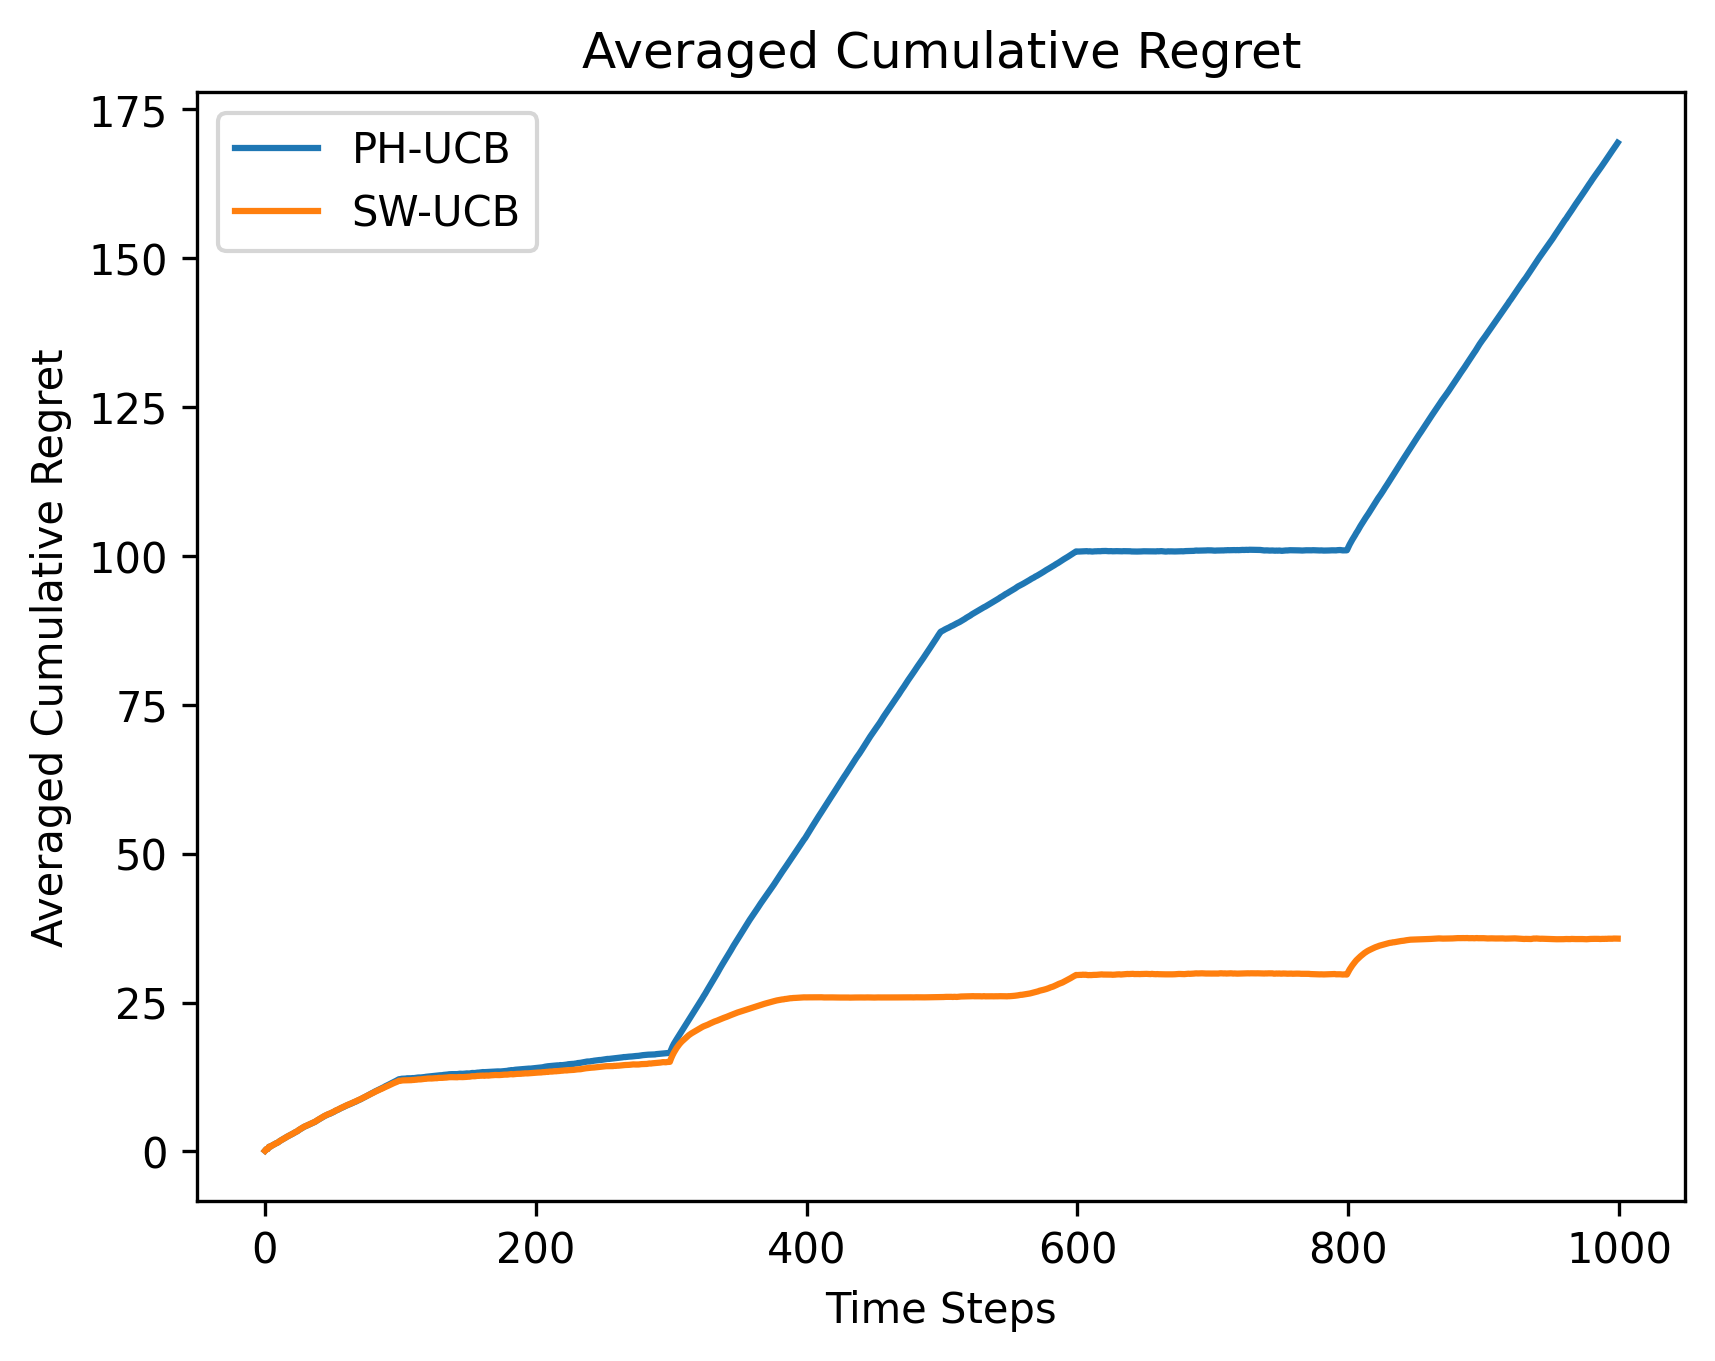
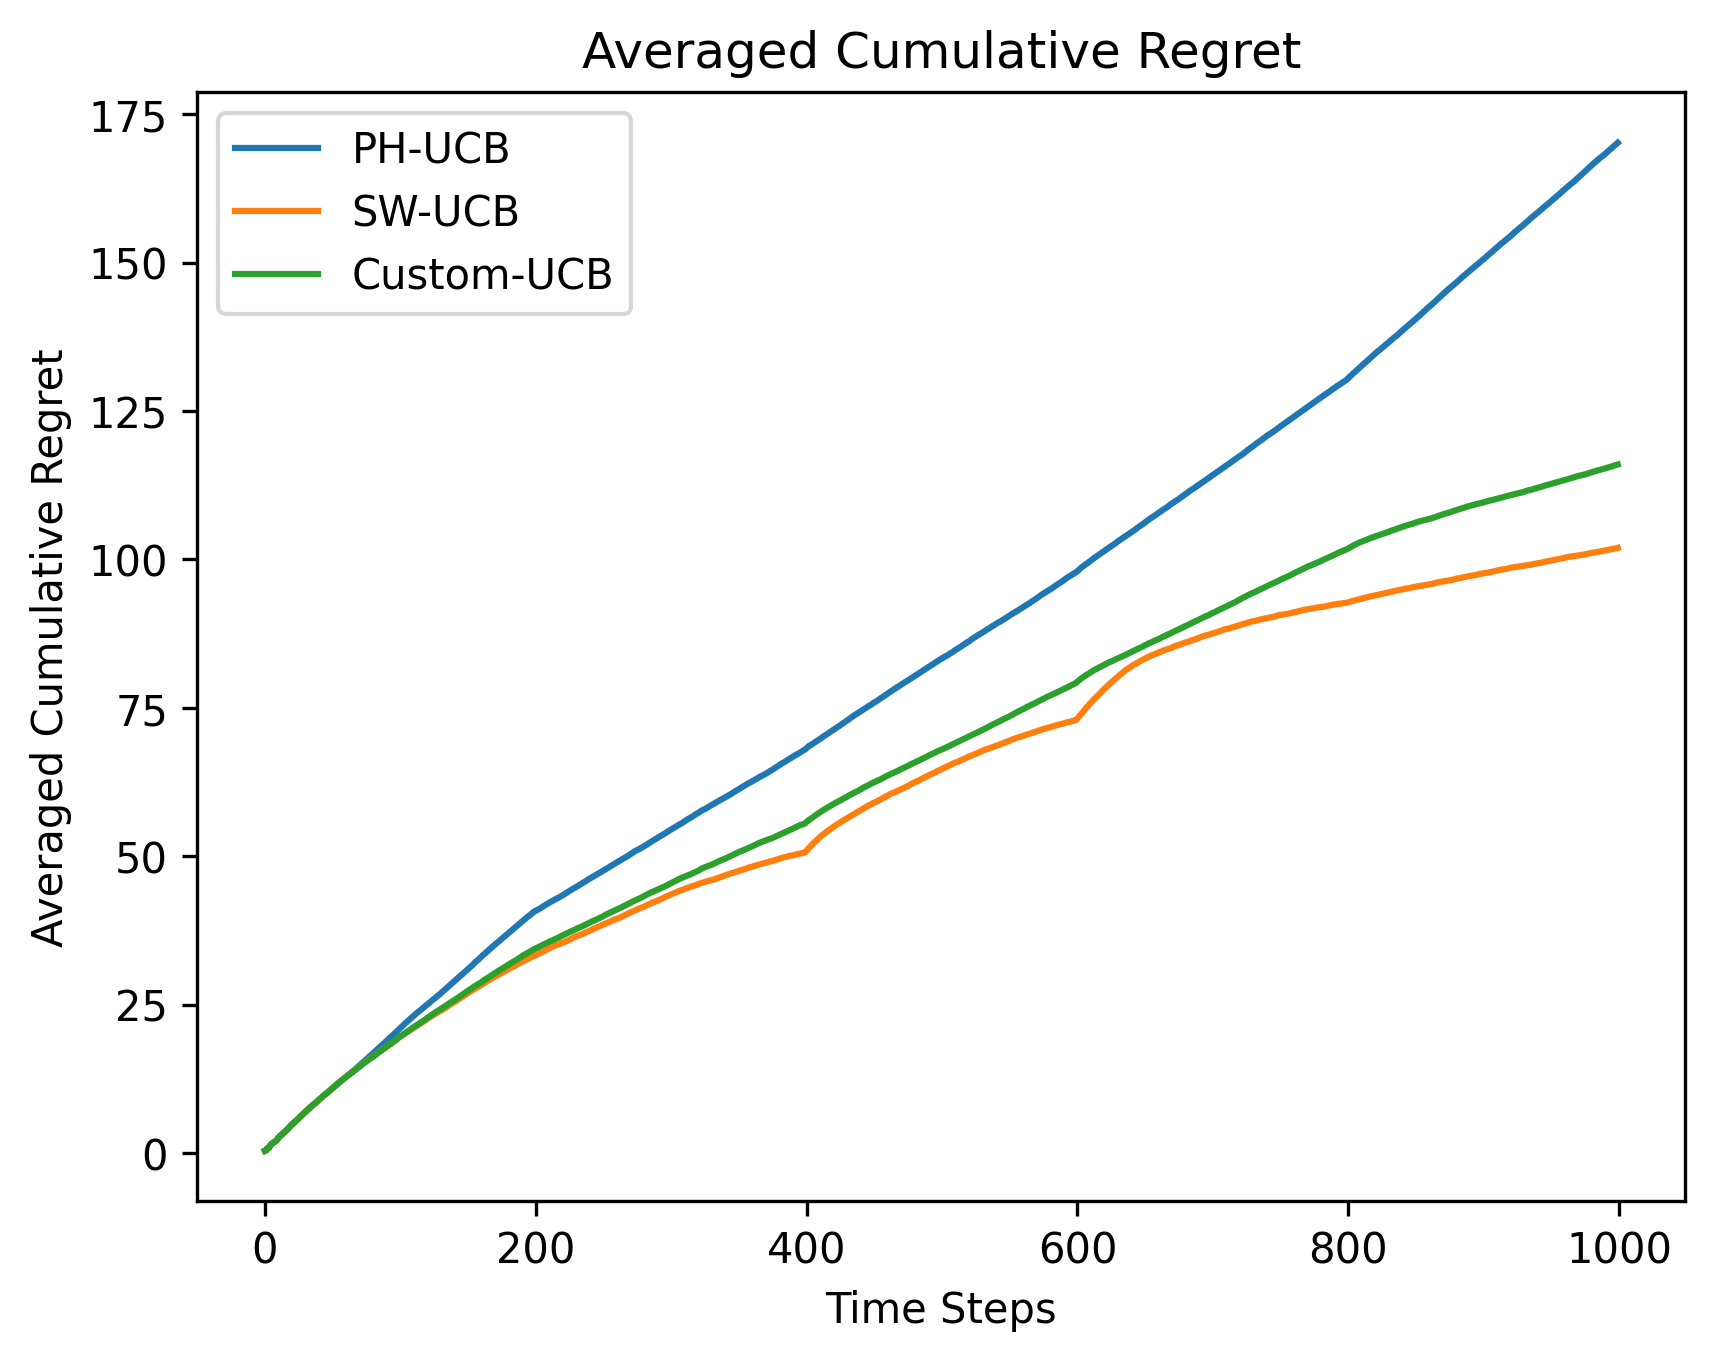
shift scheduler

diff --git a/src/cmab/environments/ns_scm_mab.py b/src/cmab/environments/ns_scm_mab.py
@@ -2,34 +2,24 @@ from cmab.scm.scm import SCM
 import numpy as np
 from cmab.typing import InterventionSet
 from .base import BaseCausalBanditEnv
+from .ns.scheduling.base import ShiftSchedule
     
 
 class NSCausalBanditEnv(BaseCausalBanditEnv):
-    def __init__(self, scm: SCM, reward_node: str, side_observations: bool = True, seed:int=42, atomic: bool = False, non_intervenable: list[str] = [], prob_distribution_shift: float = 0.01, max_delta: float = 0.2, 
-                 exogenous_to_shift: list[str] = [], new_probs: list[float] = []):
+    def __init__(self, scm: SCM, reward_node: str, side_observations: bool = True, seed:int=42, atomic: bool = False,
+                  non_intervenable: list[str] = [], shift_schedule: ShiftSchedule = None):
         super().__init__(scm, reward_node, side_observations, seed, atomic, non_intervenable)
-        self.prob_distribution_shift = prob_distribution_shift
         self.state = None
-        self.max_delta = max_delta
+        self.shift_schedule = shift_schedule
         self.action_space: list[InterventionSet] = self._init_action_space(atomic=atomic, non_intervenable=non_intervenable)
-        self.exogenous_to_shift_init = exogenous_to_shift
-        self.new_probs_init = new_probs
-        self.exogenous_to_shift = exogenous_to_shift.copy()
-        self.new_probs = new_probs.copy()
-        self.controlled_shifts = bool(exogenous_to_shift and new_probs)
 
 
     def step(self, action: InterventionSet):
-        # Possibly apply a distribution shift
-        # if self.rng.uniform(0, 1) < self.prob_distribution_shift:
-        #         self.scm.exogenous_distribution_shift(max_delta=self.max_delta, rng=self.rng)
-        if self._step % 200 == 0:
-            print(f"EXogenous left to shift: {self.exogenous_to_shift}")
-            print (f"\nStep {self._step}: Applying distribution shift.")
-            if self.controlled_shifts:
-                exogenous_to_shift = self.exogenous_to_shift.pop(0)
-                new_prob = self.new_probs.pop(0)
-            self.scm.exogenous_distribution_shift(max_delta=self.max_delta, rng=self.rng, exogenous_to_shift=exogenous_to_shift, new_prob=new_prob)
+        if self.shift_schedule is not None:
+            event = self.shift_schedule.next(t=self._step, scm=self.scm, rng=self.rng)
+
+            if event is not None:
+                self.scm.apply_shift(event)
 
         self._step += 1
         values = self.scm.sample(intervention_set=action)
@@ -51,5 +41,6 @@ class NSCausalBanditEnv(BaseCausalBanditEnv):
         if ns_seed is not None:
             self.seed = ns_seed
             self.rng = np.random.default_rng(seed=ns_seed)
-            self.exogenous_to_shift = self.exogenous_to_shift_init.copy()
-            self.new_probs = self.new_probs_init.copy()
+        
+        if self.shift_schedule is not None:
+            self.shift_schedule.reset()

diff --git a/src/cmab/scm/scm.py b/src/cmab/scm/scm.py
@@ -1,4 +1,6 @@
-from typing import Any, FrozenSet, Mapping
+from typing import Mapping
+
+from cmab.typing import ShiftEvent
 from .distribution.base import BaseDistribution
 from .mechanism.base import BaseMechanism as Mechanism
 from .domain.base import FiniteDiscreteDomain
@@ -15,7 +17,7 @@ class SCM:
                  domains: Mapping[str, FiniteDiscreteDomain], 
                  P_u_marginals: Mapping[str, BaseDistribution], 
                  F: Mapping[str, Mechanism],
-                seed: int = 42
+                seed: int = 42,
                  ):
         self.U = U   # List of exogenous variables
         self.V = V  # List of endogenous variables
@@ -97,38 +99,11 @@ class SCM:
         return expected
 
 
-
-    def exogenous_distribution_shift(self, max_delta: float, rng, exogenous_to_shift:str=None, new_prob:float=None) -> None:
-        """Perform a distribution shift on one randomly chosen exogenous variable.
-        RNG can be provided to be able to keep same change points accross runs, but still
-        change the sampling randomness accross runs.
-        """
-        if exogenous_to_shift is not None and new_prob is not None:
-            self.controlled_distribution_shift(exogenous_to_shift, new_prob)
-            return
-
-        if rng is None:
-            rng = self.rng
-
-        u_to_shift = rng.choice(self.U)
-        print(f"Distribution shift applied to exogenous variable {u_to_shift}.")
-        prev = self.P_u_marginals[u_to_shift].p
-        self.P_u_marginals[u_to_shift].distribution_shift(rng=rng, max_delta=max_delta)
-        new = self.P_u_marginals[u_to_shift].p
-        print(f" - Previous parameter: {prev}, new parameter: {new}.")
-
-
-    def controlled_distribution_shift(self, exogenous, new_param) -> None:
-        """Perform a distribution shift on one specified exogenous variable.
-        RNG can be provided to be able to keep same change points accross runs, but still
-        change the sampling randomness accross runs.
-        """
-        print(f"\nControlled distribution shift applied to exogenous variable {exogenous}.")
-        print(f"P before controlled shift: {[self.P_u_marginals[exogenous].p]}")
-        self.P_u_marginals[exogenous].p = new_param
-        print(f"New parameter {new_param}.")
-
-
+    def apply_shift(self, event: ShiftEvent):
+        """Apply a shift event to the SCM by updating the relevant exogenous distribution."""
+        dist = self.P_u_marginals[event.exogenous]
+        dist.update_parameters(event.param_updates)
+        
     def get_causal_diagram(self) -> CausalDiagram:
         """Get the causal diagram (with bidirected edges for UCs) and no exogenous nodes."""
         directed_edges = []

diff --git a/experiments/nonstationary/simple.py b/experiments/nonstationary/simple.py
@@ -10,6 +10,7 @@ from cmab.algorithms.ucb import UCBAgent, SlidingWindowUCBAgent
 from cmab.algorithms.ucb.pomis_ucb import PomisUCBAgent
 from cmab.algorithms.ucb.custom import MyFirstAtomicAgent
 from cmab.algorithms.ucb.ph_ucb import PageHinkleyUCBAgent
+from cmab.environments.ns.scheduling.controlled_schedule import ControlledSchedule
 from cmab.utils.plotting import  plot_regrets
 from cmab.metrics.cumulative_regret import CumulativeRegret
 import numpy as np
@@ -51,11 +52,9 @@ def main():
         seed=SEED
     )
 
-    exogenous_to_shift = ['U_X', 'U_Z', 'U_Z', 'U_X', 'U_Z']
-    new_probs = [0.6, 0.3, 0.8, 0.9, 0.4] 
-
     reward_node = 'Y'
-    env = NSCausalBanditEnv(scm=scm, reward_node=reward_node, seed=SEED, atomic=True, exogenous_to_shift=exogenous_to_shift, new_probs=new_probs)
+    schedule = ControlledSchedule(exogenous=['U_X', 'U_Z', 'U_Z', 'U_X', 'U_Y'], new_params=[0.6, 0.2, 0.8, 0.9, 0.6], every=200)
+    env = NSCausalBanditEnv(scm=scm, reward_node=reward_node, seed=SEED, atomic=True, shift_schedule=schedule)
     print(f"Number of actions: {len(env.action_space)}")
     print(f"Action space: {env.action_space}")
 
@@ -71,7 +70,7 @@ def main():
         'PH-UCB': PageHinkleyUCBAgent(reward_node=reward_node, arms=env.action_space, c=c, delta=delta, lambda_=lambda_, min_samples_for_detection=min_samples_for_detection),
         'SW-UCB': SlidingWindowUCBAgent(reward_node=reward_node, arms=env.action_space, c=c, window_size=100),
         # Node level CPD
-        #'Custom-UCB': MyFirstAtomicAgent(reward_node=reward_node, G=G, arms=env.action_space, c=c, delta=delta, lambda_=lambda_, min_samples_for_detection=min_samples_for_detection)
+        'Custom-UCB': MyFirstAtomicAgent(reward_node=reward_node, G=G, arms=env.action_space, c=c, delta=delta, lambda_=lambda_, min_samples_for_detection=min_samples_for_detection)
     }
 
     T= 1000  # number of steps in each run
@@ -101,7 +100,7 @@ def main():
                 reward = observation[reward_node]
                 optimal_arm, opt_exp_reward = env.get_optimal(binary=True, discrete=True)
                 if optimal_arm != current_optimal:
-                    print(f"  Optimal arm changed from {current_optimal} to {optimal_arm} at step {env._step}")
+                    #print(f"  Optimal arm changed from {current_optimal} to {optimal_arm} at step {env._step}")
                     current_optimal = optimal_arm
                 regret.update(reward, opt_exp_reward)
             

diff --git a/src/cmab/environments/ns/scheduling/controlled_schedule.py b/src/cmab/environments/ns/scheduling/controlled_schedule.py
@@ -1,0 +1,27 @@
+from .base import ShiftSchedule
+from cmab.typing import ShiftEvent
+from cmab.scm.scm import SCM
+import numpy as np
+from typing import Optional
+
+class ControlledSchedule(ShiftSchedule):
+    def __init__(self, exogenous: list[str], new_params: list[float], every: int):
+        assert len(exogenous) == len(new_params)
+        self.exogenous = list(exogenous)
+        self.new_params = list(new_params)
+        self.every = every  # Apply a shift at every t steps
+        self._idx = 0
+       
+    def next(self, t: int, scm: SCM, rng: np.random.Generator) -> Optional[ShiftEvent]:
+        if t == 0 or (t % self.every != 0):
+            return None
+        
+        if self._idx >= len(self.exogenous):
+            return None
+        
+        event = ShiftEvent(exogenous=self.exogenous[self._idx], param_updates={"p": self.new_params[self._idx]})
+        self._idx += 1
+        return event
+    
+    def reset(self) -> None:
+        self._idx = 0

diff --git a/src/cmab/scm/distribution/base.py b/src/cmab/scm/distribution/base.py
@@ -9,43 +9,10 @@ class BaseDistribution(ABC):
         pass
 
     @abstractmethod
+    def update_parameters(self, param_updates: dict[str, float]) -> None:
+        pass
+
+    @abstractmethod
     def reset(self):
         pass
 
-
-class BasePMF(BaseDistribution):
-    def __init__(self):
-        pass    
-    
-    @abstractmethod
-    def sample(self):
-        pass
-
-    @abstractmethod
-    def prob(self, x):
-        pass
-
-    @abstractmethod
-    def support(self):
-        pass
-
-    @abstractmethod
-    def reset(self, seed: int):
-        pass
-
-
-class BasePDF(BaseDistribution):
-    def __init__(self):
-        pass    
-    
-    @abstractmethod
-    def sample(self):
-        pass
-
-    @abstractmethod
-    def pdf(self, x):
-        pass
-
-    @abstractmethod
-    def reset(self, seed: int):
-        pass

diff --git a/src/cmab/environments/ns/scheduling/random_schedule.py b/src/cmab/environments/ns/scheduling/random_schedule.py
@@ -1,0 +1,24 @@
+from .base import ShiftSchedule
+from cmab.typing import ShiftEvent
+from cmab.scm.scm import SCM
+import numpy as np
+from typing import Optional
+
+class RandomSchedule(ShiftSchedule):
+    def __init__(self, prob_shift: float, max_delta: float):
+        self.prob_shift = prob_shift
+        self.max_delta = max_delta
+
+    def next(self, t: int, scm: SCM, rng: np.random.Generator) -> Optional[ShiftEvent]:
+        if rng.uniform(0, 1) >= self.prob_shift:
+            return None
+        
+        u = rng.choice(scm.U)
+        dist = scm.P_u_marginals[u]
+
+        delta = rng.uniform(-self.max_delta, self.max_delta)
+        new_p = min(1.0, max(0.0, dist.p + delta))
+        return ShiftEvent(exogenous=u, param_updates={"p": new_p})
+
+    def reset(self) -> None:
+        pass

diff --git a/src/cmab/scm/distribution/bernoulli.py b/src/cmab/scm/distribution/bernoulli.py
@@ -19,11 +19,11 @@ class Bernoulli(BaseDistribution):
             return 1 - self.p
         else:
             return 0.0
-
-    def distribution_shift(self, rng, max_delta: float) -> None:
-        delta = rng.uniform(-max_delta, max_delta)
-        new_p = self.p + delta
-        self.p = min(1.0, max(0.0, new_p))
+        
+    def update_parameters(self, param_updates: dict[str, float]) -> None:
+        """Update the parameters of the distribution based on the provided updates."""
+        if "p" in param_updates:
+            self.p = param_updates["p"]
 
     def reset(self) -> None:
         self.p = self.p0

diff --git a/src/cmab/typing.py b/src/cmab/typing.py
@@ -1,6 +1,12 @@
+from dataclasses import dataclass
 from typing import Tuple, Dict, TypeAlias
 
 Intervention: TypeAlias = Tuple[str, float]
 InterventionSet: TypeAlias = frozenset[Intervention]
 
 Observation: TypeAlias = Dict[str, float]
+
+@dataclass(frozen=True)
+class ShiftEvent:
+    exogenous: str
+    param_updates: dict[str, float] # e.g. ["p" : 0.7] for a binary variable, or {"mean": 0.5, "std": 0.1} for a Gaussian variable

diff --git a/src/cmab/environments/ns/scheduling/base.py b/src/cmab/environments/ns/scheduling/base.py
@@ -1,0 +1,16 @@
+from abc import ABC, abstractmethod
+from typing import Optional
+from cmab.scm.scm import SCM
+from cmab.typing import ShiftEvent
+
+class ShiftSchedule(ABC):
+    def __init__(self):
+        pass
+
+    @abstractmethod
+    def next(self, t: int, scm: SCM, rng) -> Optional[ShiftEvent]:
+        pass
+
+    @abstractmethod
+    def reset(self) -> None:
+        pass
